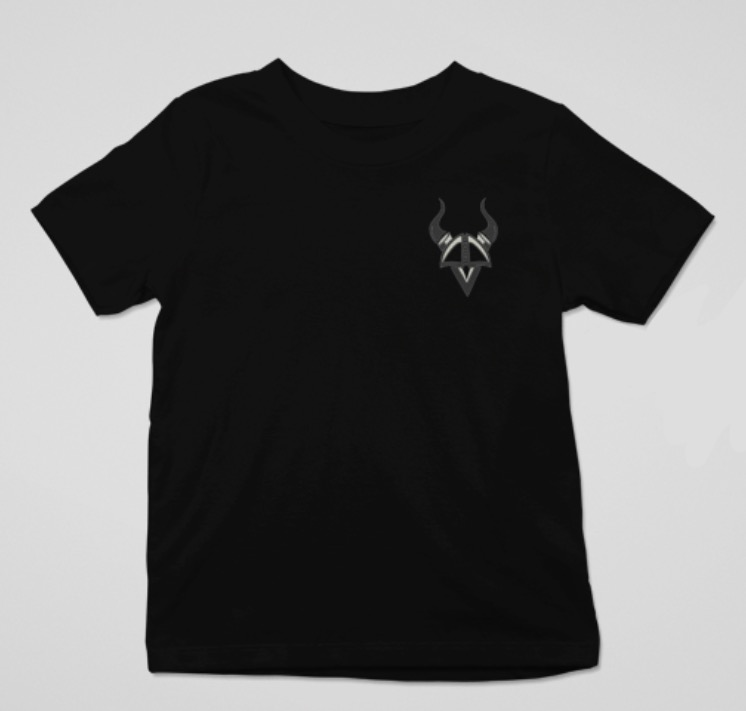
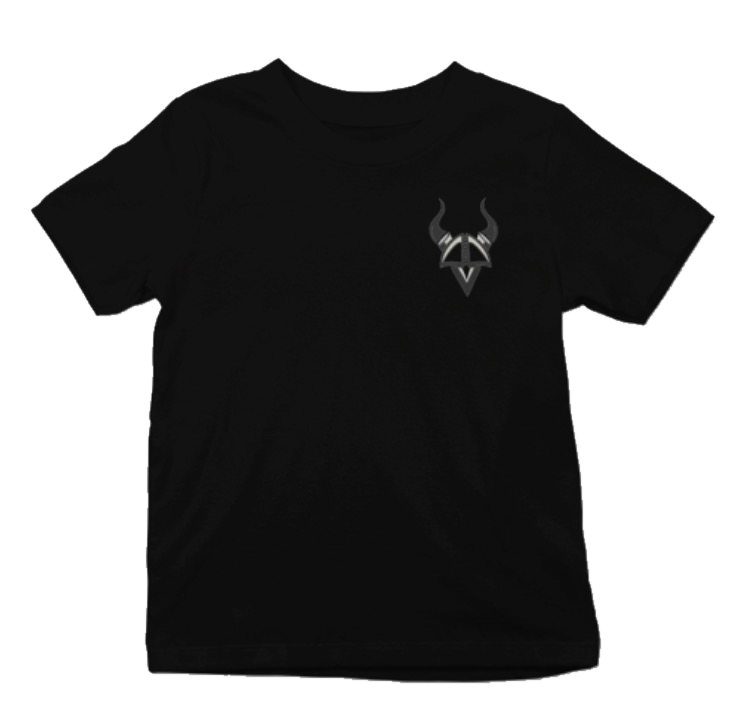
Repartit la phrase de marque sur les pages et detoure les t-shirts
La phrase de l'ancienne page d'accueil, perdue lors de la refonte, est
redecoupee en quatre fragments dans le style du bandeau 'Merch officiel'
(11px, capitales, degrade violet -> vert) :

- menu : 'Deux createurs' sous le gros logo, remplace par 'Un seul reve'
  au clic ; les deux fragments se superposent en fondu croise pour que
  rien ne bouge autour
- boutique : 'Cinq pieces' au-dessus du nom de l'article
- aventure : 'Mille quatre cent trente-quatre kilometres' au-dessus du
  trajet

Les deux visuels de t-shirt sont detoures. Les PNG dits transparents ne
l'etaient pas : convertis depuis les JPG sans que le fond soit retire,
ils affichaient 0% de pixels transparents. Celui du t-shirt noir posait
un rectangle gris clair au milieu de la galerie sombre. Le fond relie
aux bords est efface par remplissage, avec un bord progressif ; la
bavure noire du t-shirt blanc part avec son fond.

L'ecart entre le logo du menu et sa legende est resserre, la legende
n'existait pas quand la marge a ete reglee.

diff --git a/index.html b/index.html
@@ -95,7 +95,7 @@
     width:280px;
     height:auto;
     display:block;
-    margin-bottom:60px;
+    margin-bottom:34px;
     filter:drop-shadow(0 0 20px rgba(155,107,255,.2));
     animation:fadeInDown .8s ease, twinkle 3.5s ease-in-out infinite;
     cursor:pointer;
@@ -106,8 +106,41 @@
 
   .brand-mark.active{
     width:120px;
-    margin-bottom:40px;
+    margin-bottom:26px;
   }
+
+  .eyebrow{
+    font-size:11px;
+    letter-spacing:.28em;
+    text-transform:uppercase;
+    font-weight:600;
+    /* La lettre finale traine son interlettrage : on compense pour recentrer. */
+    padding-left:.28em;
+    background:linear-gradient(90deg, var(--violet), var(--green));
+    -webkit-background-clip:text;
+    background-clip:text;
+    -webkit-text-fill-color:transparent;
+    color:transparent;
+  }
+
+  /* Les deux fragments se croisent au meme endroit : pas de saut de mise en page. */
+  .menu-words{
+    position:relative;
+    height:14px;
+    width:100%;
+    z-index:2;
+  }
+  .menu-words .eyebrow{
+    position:absolute;
+    left:50%;
+    top:0;
+    transform:translateX(-50%);
+    white-space:nowrap;
+    transition:opacity .6s ease;
+  }
+  .word-open{ opacity:0; }
+  body.opened .word-idle{ opacity:0; }
+  body.opened .word-open{ opacity:1; }
 
   .menu-nav{
     position:fixed;
@@ -232,6 +265,10 @@
 
   <div class="menu-container">
     <img src="assets/logo-mark.png" alt="Devercinge" class="brand-mark">
+    <div class="menu-words">
+      <div class="eyebrow word-idle">Deux créateurs</div>
+      <div class="eyebrow word-open">Un seul rêve</div>
+    </div>
   </div>
 
 <script src="assets/js/cart.js"></script>

diff --git a/boutique.html b/boutique.html
@@ -91,7 +91,24 @@
   }
   .back-link:hover{ opacity:.8; }
 
+  .eyebrow{
+    font-size:11px;
+    letter-spacing:.28em;
+    text-transform:uppercase;
+    font-weight:600;
+    /* La lettre finale traine son interlettrage : on compense pour recentrer. */
+    padding-left:.28em;
+    background:linear-gradient(90deg, var(--violet), var(--green));
+    -webkit-background-clip:text;
+    background-clip:text;
+    -webkit-text-fill-color:transparent;
+    color:transparent;
+  }
+
+  .product-meta{ text-align:right; }
+
   .product-name{
+    margin-top:5px;
     font-size:12px;
     letter-spacing:.08em;
     text-transform:uppercase;
@@ -260,7 +277,10 @@
     <a href="index.html" class="back-link">
       <img src="assets/logo-mark.png" alt="Menu">
     </a>
-    <div class="product-name" id="productName">Sélectionne un article</div>
+    <div class="product-meta">
+      <div class="eyebrow">Cinq pièces</div>
+      <div class="product-name" id="productName">Sélectionne un article</div>
+    </div>
   </header>
 
   <div class="gallery-container">

diff --git a/aventure.html b/aventure.html
@@ -137,6 +137,25 @@
     text-align:center;
   }
 
+  .eyebrow{
+    font-size:11px;
+    letter-spacing:.28em;
+    text-transform:uppercase;
+    font-weight:600;
+    /* La lettre finale traine son interlettrage : on compense pour recentrer. */
+    padding-left:.28em;
+    background:linear-gradient(90deg, var(--violet), var(--green));
+    -webkit-background-clip:text;
+    background-clip:text;
+    -webkit-text-fill-color:transparent;
+    color:transparent;
+  }
+
+  .info-panel .eyebrow{
+    line-height:1.7;
+    margin-bottom:10px;
+  }
+
   .journey-status{
     font-size:13px;
     color:var(--ink-dim);
@@ -164,6 +183,7 @@
   <div id="map"></div>
 
   <div class="info-panel">
+    <div class="eyebrow">Mille quatre cent trente-quatre kilomètres</div>
     <div class="journey-status">
       <strong>Nice</strong> → Marseille → Toulouse → Bordeaux → La Rochelle → Nantes → Rennes → Brest<br>
       <span id="journeyDate">Départ : 6 septembre 2026</span>
